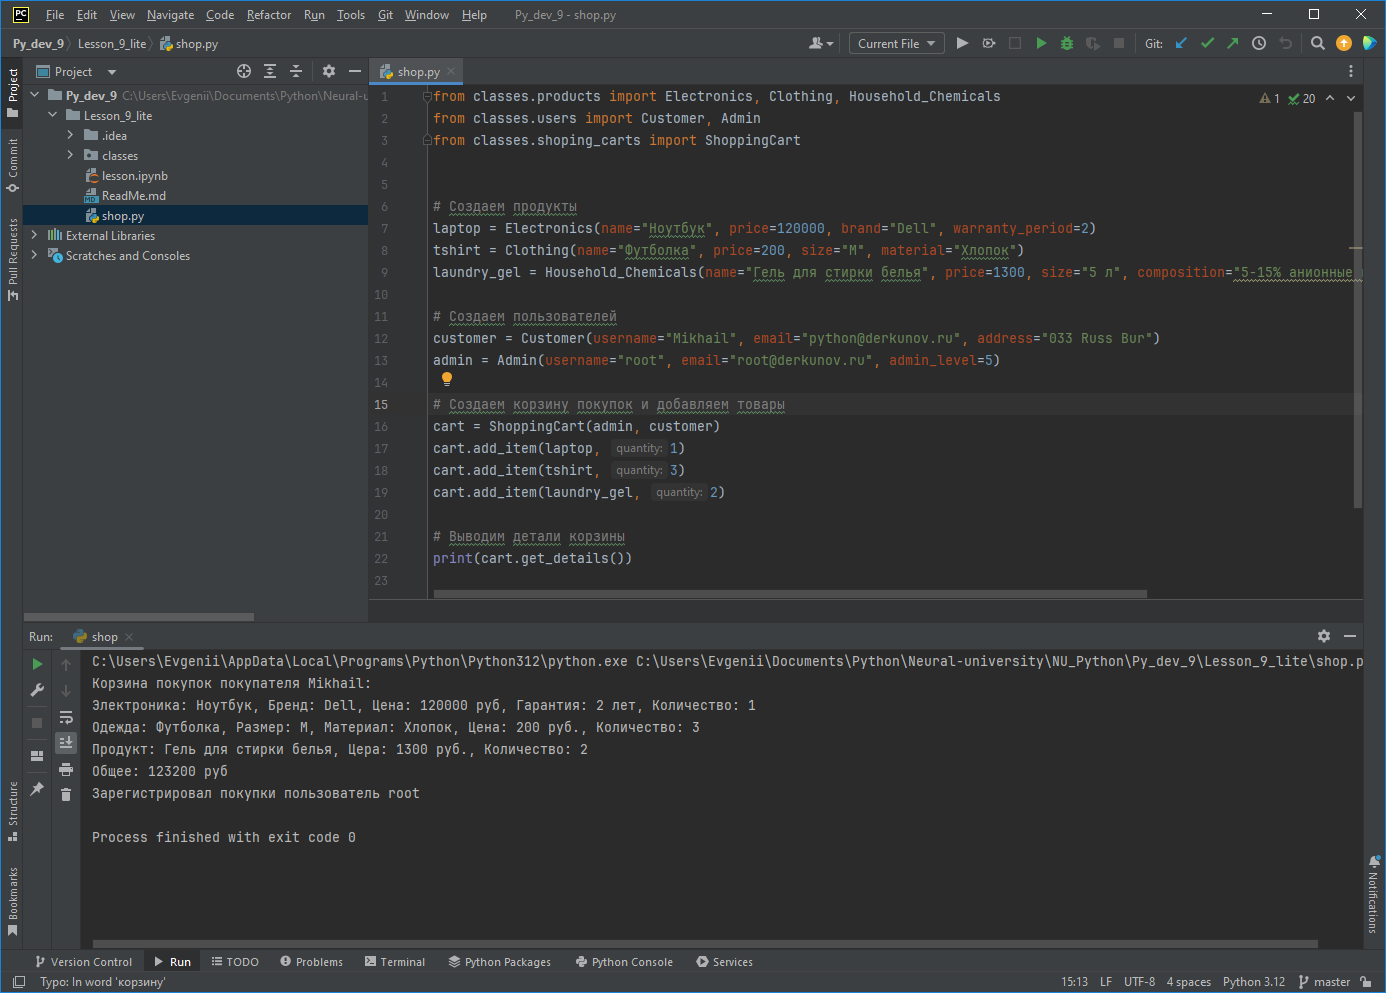
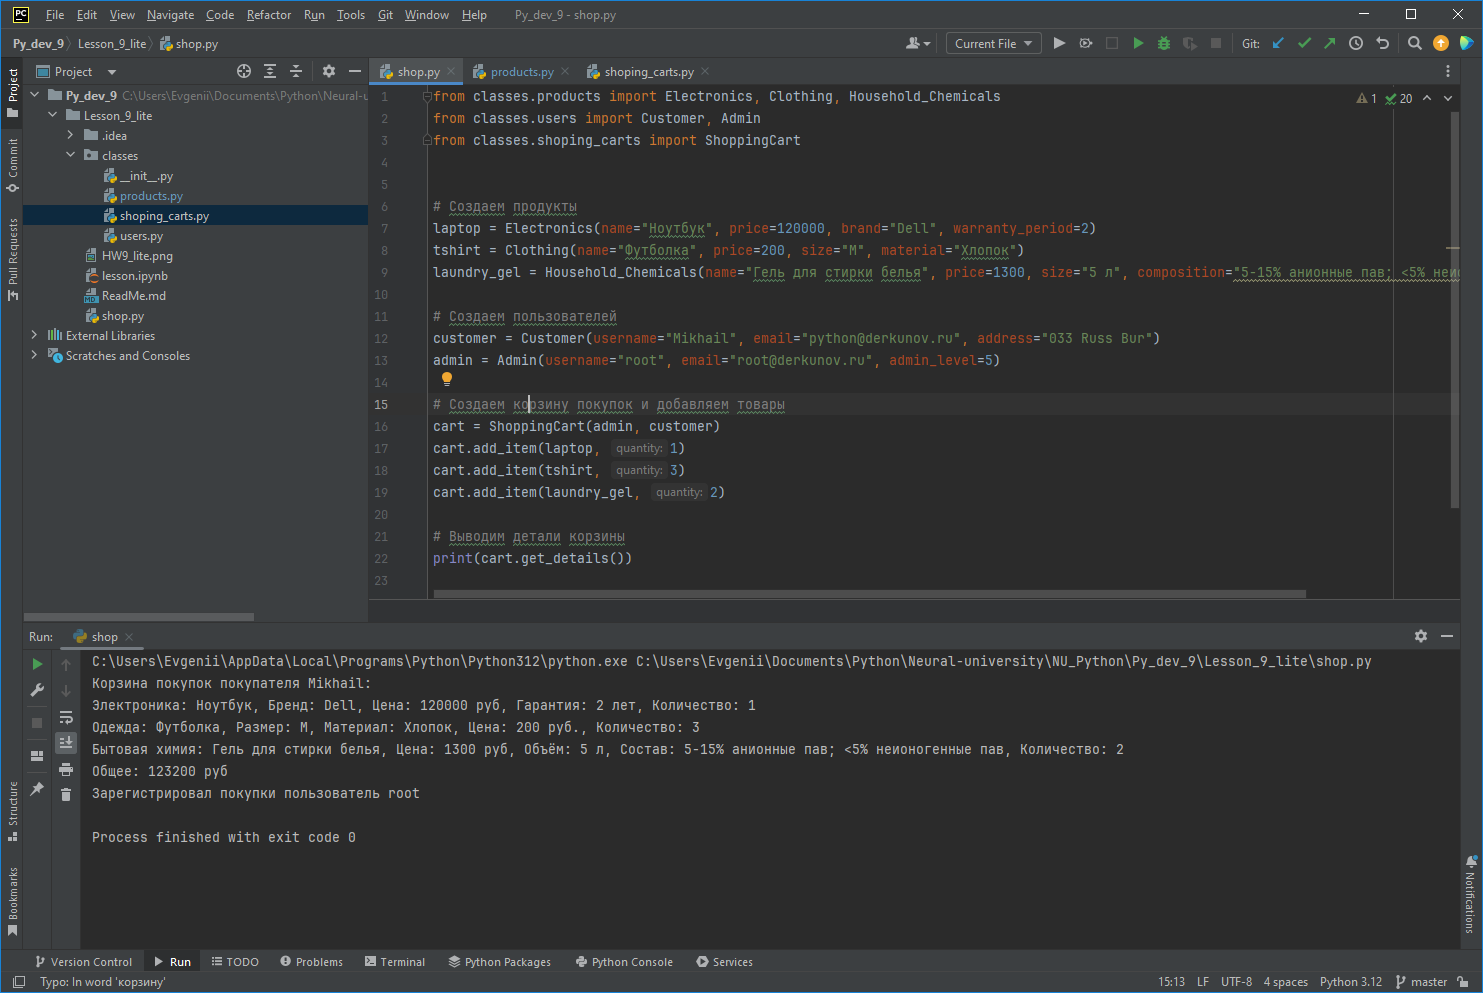
Решение домашнего задания

diff --git a/classes/products.py b/classes/products.py
@@ -9,7 +9,7 @@ class Product:
         self.price = price
 
     def get_details(self):
-        return f"Продукт: {self.name}, Цера: {self.price} руб."
+        return f"Продукт: {self.name}, Цена: {self.price} руб."
 
 class Electronics(Product):
     """
@@ -44,4 +44,6 @@ class Household_Chemicals(Product):
         self.size = size
         self.composition = composition
 
+    def get_details(self):
+        return f"Бытовая химия: {self.name}, Цена: {self.price} руб, Объём: {self.size}, Состав: {self.composition}"
 
